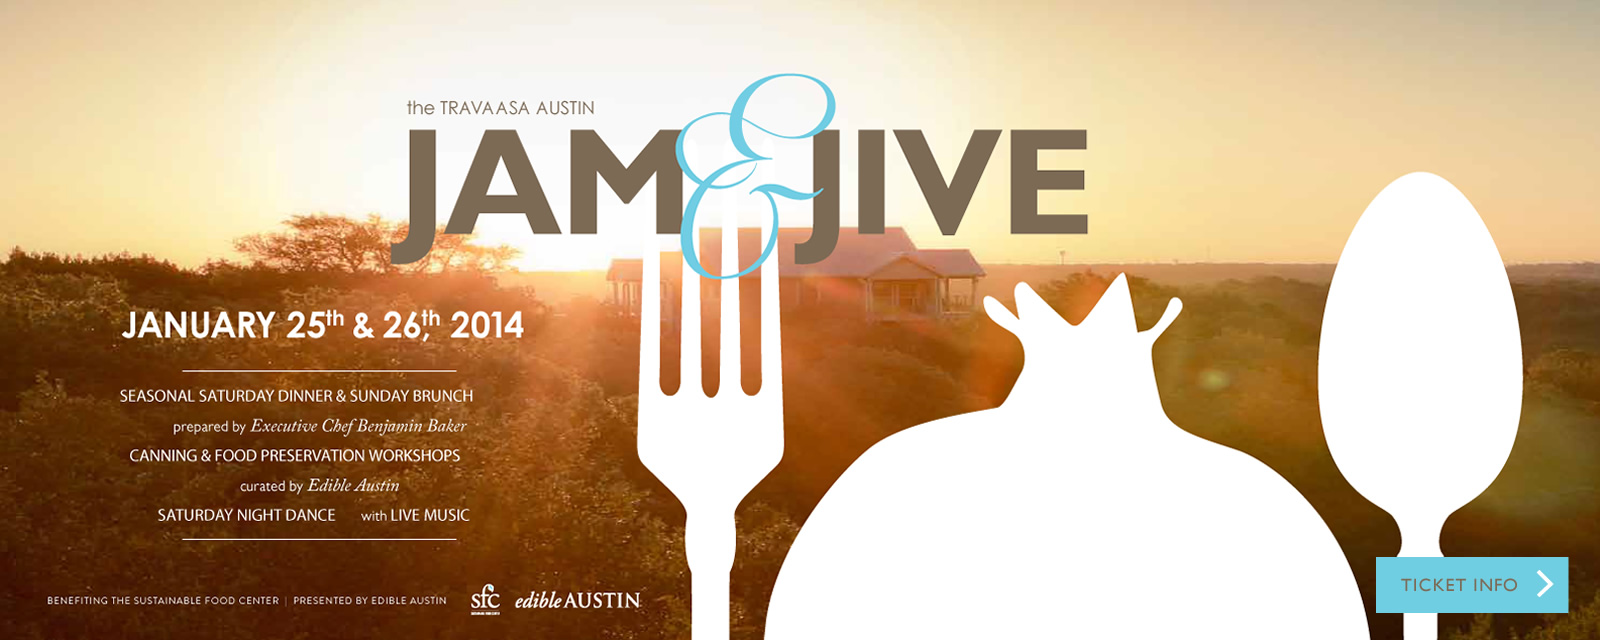
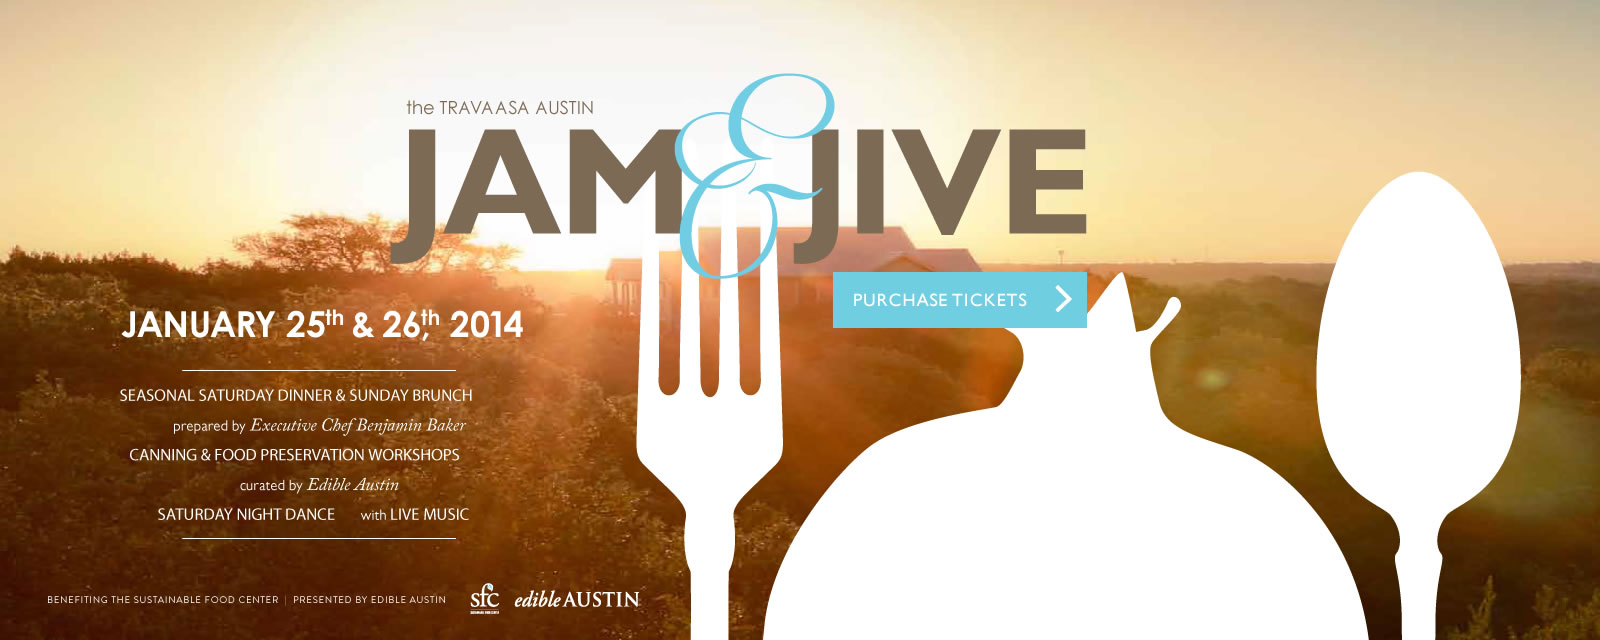
jam and jive updates

diff --git a/assets/css/global_trav.css b/assets/css/global_trav.css
@@ -347,7 +347,7 @@ footer { clear:both; width:100%; background-color:#333333; margin:0; padding:0; 
 .pad { padding:1.5em; /* 24 / 16 */  }
 .subpage_bg { height:200px; width:100%; overflow:hidden; text-align:center; }
 .subpage_bg img { height:100%; width:auto; margin:0 auto; }
-.subpage400_bg { height:400px; width:100%; overflow:hidden; text-align:center; }
+.subpage400_bg { height:auto; width:100%; overflow:hidden; text-align:center; }
 .subpage400_bg img { height:auto; width:auto; margin:0 auto; }
 #gallery_cnt #content { background:url(../images/global/placeholder.gif) no-repeat; margin-top:0; padding-top:0; }
 .col { position:relative; }

diff --git a/jamandjive/index.php b/jamandjive/index.php
@@ -30,7 +30,9 @@ j=d.createElement(s),dl=l!='dataLayer'?'&l='+l:'';j.async=true;j.src=
 <!-- End Google Tag Manager -->
 <?php 
    include_once($path."/Library/Travaasa_Menu_Austin.php");?>
-<section id="feature1_wrapper" class="subpage_bg"><img src="/assets/images/bg_hana_clouds.jpg" alt=""></section>
+<!--<section id="feature1_wrapper" class="subpage_bg"><img src="/assets/images/bg_hana_clouds.jpg" alt=""></section>-->
+<section id="feature1_wrapper" class="subpage400_bg"><img data-original="/assets/images/feature_austin_1600x400_jam-n-jive.jpg" src="/assets/images/feature_austin_1600x400_jam-n-jive.jpg" alt=""></section>
+
 <!--<section id="feature1_wrapper" class="subpage400_bg"><a href="https://travaasa.ticketbud.com/robert-mondavi-wine-dinner" target="_blank"><img data-original="/assets/images/feature_400_austin_1600x400_mondavi-wine-dinner.jpg" src="/assets/images/feature_400_austin_1600x400_mondavi-wine-dinner.jpg" alt=""></section>-->
 
 <!--<section id="feature1_wrapper" class="feature_carousel sub_feature clearfix">
@@ -82,6 +84,7 @@ The Jive 8:30 – 10:00p.m.<br>
   </section>
 
   <section class="spa_package">
+    <img src="/assets/images/session-one.jpg" style="float:left; margin:0 15px 15px 0;" alt="Session One" width="165"><br>
     <h3>SESSION ONE | 3:30 – 4:30p.m.<span style="font-family:georgia, serif; color:#606060; font-size:18px; text-transform:lowercase;">&nbsp;&nbsp;&#8211; <em>choose one</em></span></h3>
     <h4>Jammin’ with Confituras &#8211; Preserving the Seasons Workshop with <a href="http://confituras.net/" target="_blank">Stephanie McClenny</a></h4>
     <p>Two-time Good Food award-winner Stephanie McClenny will talk about the history of canning and preserving and her personal travels along the path to forming a small-production jam company. She’ll share some of her favorite seasonal fruit and vegetable jam ingredients combinations and demonstrate the process of making jam. Participants will learn valuable tips and techniques and take away a recipe or two!</p>
@@ -89,6 +92,7 @@ The Jive 8:30 – 10:00p.m.<br>
     <p>The sourdough workshop, hosted by Travaasa Executive Chef Benjamin Baker, will focus on fermenting grains as a historical method for increasing nutritional value and aiding in digestibility. Chef Ben will detail the progress that sourdough has made traveling the planet for the past 172 years, where it stayed, and for how long. Participants will learn the process involved in storing the starter and making the bread.</p>
   </section>
   <section class="spa_package">
+    <img src="/assets/images/session-two.jpg" style="float:left; margin:0 15px 15px 0;" alt="Session One" width="165"><br>
     <h3>SESSION TWO | 5:00 – 6:00p.m.<span style="font-family:georgia, serif; color:#606060; font-size:18px; text-transform:lowercase;">&nbsp;&nbsp;&#8211; <em>choose one</em></span></h3>
     <h4>Oh Kimchi! &#8211; Ancient Art of Making Kimchi Workshop with <a href="http://facebook.com/OhKimchiAustin" target="_blank">Abigail Lunde</a></h4>
     <p>Explore the ancient art of making kimchi in the traditional Korean method. Abbi will cover everything from the historic and cultural roots of kimchi to how to select seasonal veggies good for Kimchi making (the winter growing season in Austin is perfect for this), to a step-by-step and hands on demo of making and jarring your own! Attendees will take home their own 32 oz jar of a seasonal variety they will prepare themselves.</p>
